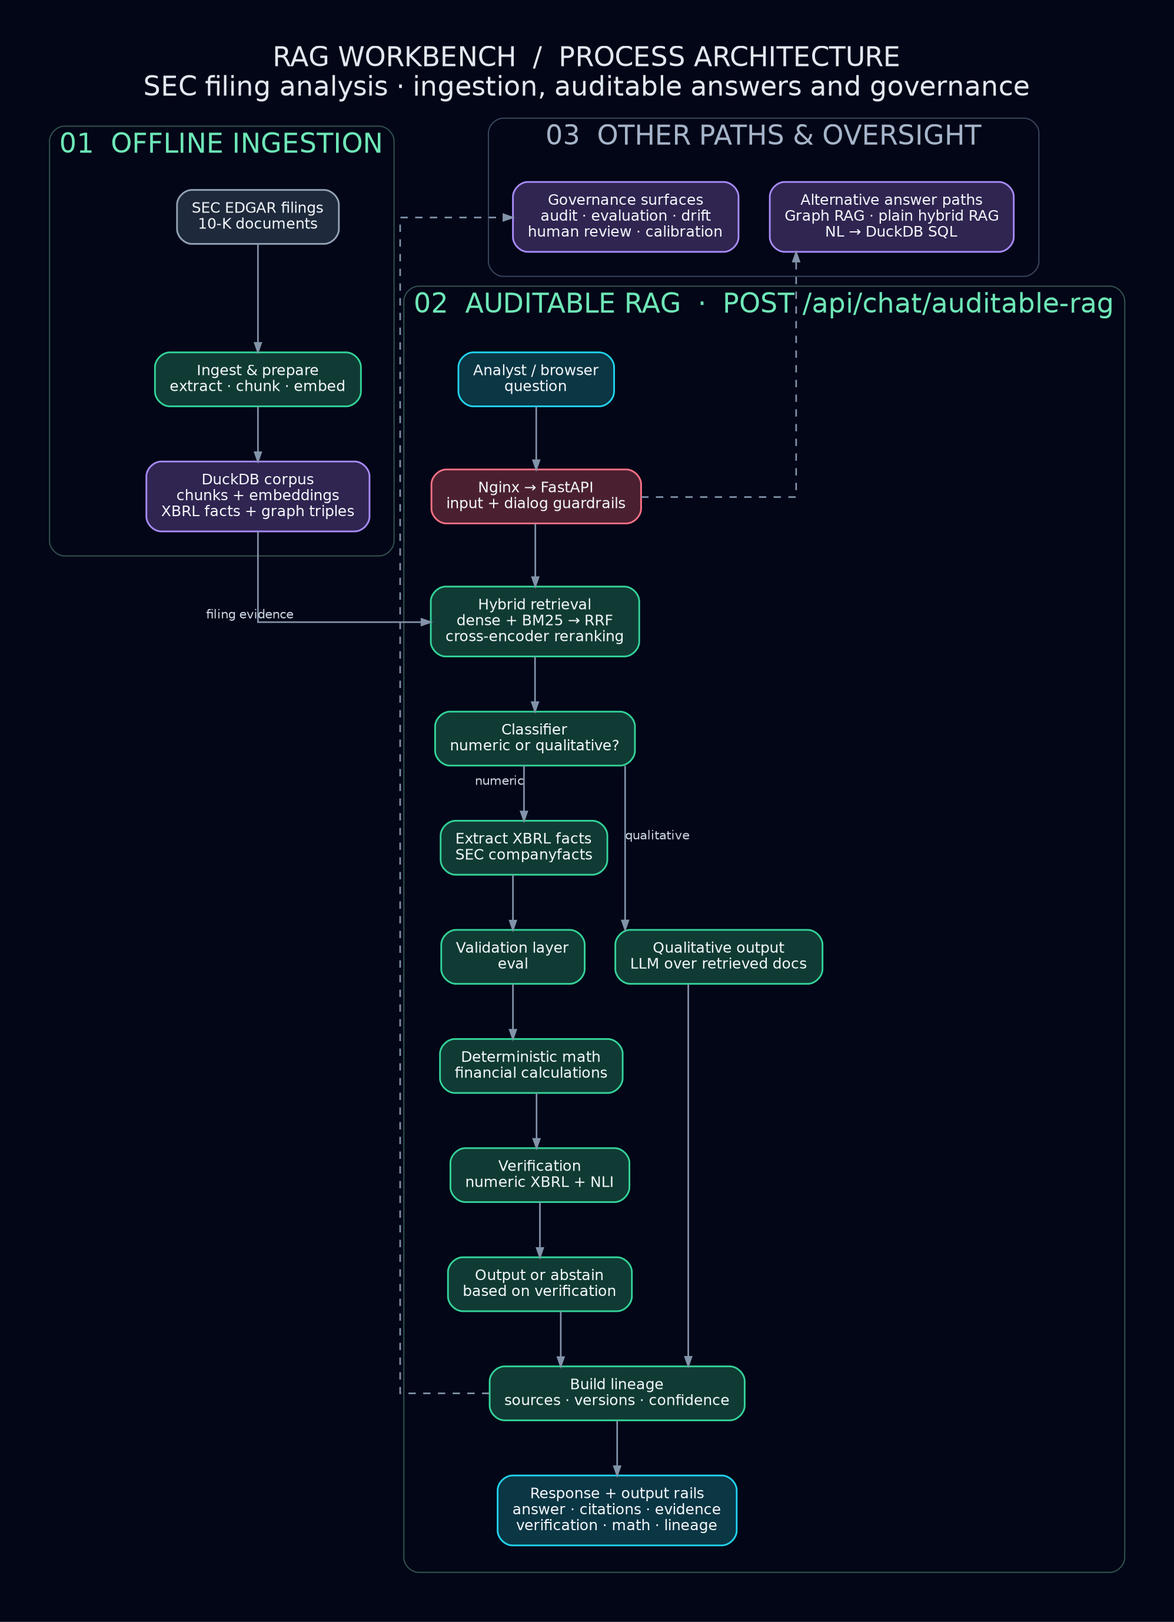
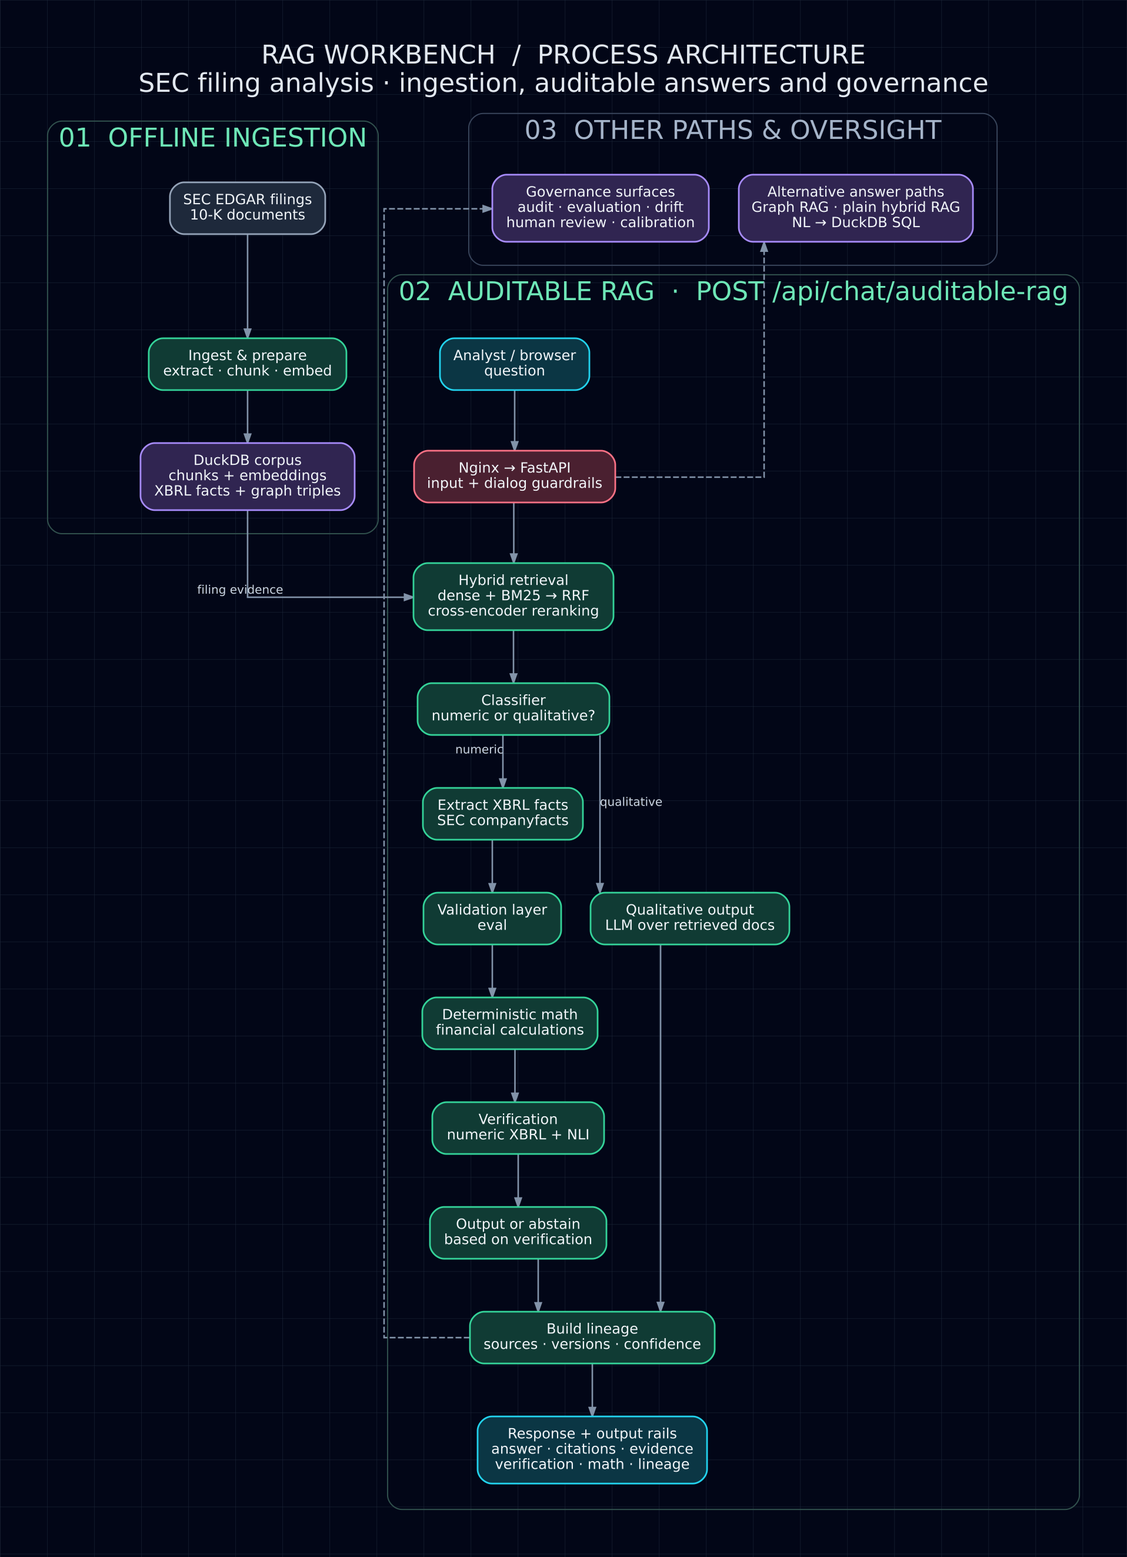
Align diagram layering with generator template

diff --git a/docs/rag-process-architecture.html b/docs/rag-process-architecture.html
@@ -73,6 +73,7 @@
 
     svg {
       width: 100%;
+      height: auto;
       min-width: 900px;
       display: block;
     }
@@ -203,25 +204,131 @@
     <div class="diagram-container">
 <svg role="img" aria-label="RAG Workbench process architecture"
  viewBox="0.00 0.00 957.80 1322.80" xmlns="http://www.w3.org/2000/svg" xmlns:xlink="http://www.w3.org/1999/xlink">
+<defs><pattern id="grid" width="40" height="40" patternUnits="userSpaceOnUse"><path d="M 40 0 L 0 0 0 40" fill="none" stroke="#1e293b" stroke-width="0.5"/></pattern></defs>
+<rect width="100%" height="100%" fill="#020617"/><rect width="100%" height="100%" fill="url(#grid)"/>
 <g id="graph0" class="graph" transform="scale(1 1) rotate(0) translate(32.4 1290.4)">
 <title>RAG</title>
-<polygon fill="#020617" stroke="transparent" points="-32.4,32.4 -32.4,-1290.4 925.4,-1290.4 925.4,32.4 -32.4,32.4"/>
 <text text-anchor="middle" x="446.5" y="-1236.4" font-family="DejaVu Sans" font-size="22.00" fill="#e2e8f0">RAG WORKBENCH &#160;/ &#160;PROCESS ARCHITECTURE</text>
 <text text-anchor="middle" x="446.5" y="-1212.4" font-family="DejaVu Sans" font-size="22.00" fill="#e2e8f0">SEC filing analysis · ingestion, auditable answers and governance</text>
 <g id="clust1" class="cluster">
 <title>cluster_ingest</title>
-<path fill="#020617" stroke="#31514d" d="M20,-837C20,-837 277,-837 277,-837 283,-837 289,-843 289,-849 289,-849 289,-1175.5 289,-1175.5 289,-1181.5 283,-1187.5 277,-1187.5 277,-1187.5 20,-1187.5 20,-1187.5 14,-1187.5 8,-1181.5 8,-1175.5 8,-1175.5 8,-849 8,-849 8,-843 14,-837 20,-837"/>
+<path fill="none" stroke="#31514d" d="M20,-837C20,-837 277,-837 277,-837 283,-837 289,-843 289,-849 289,-849 289,-1175.5 289,-1175.5 289,-1181.5 283,-1187.5 277,-1187.5 277,-1187.5 20,-1187.5 20,-1187.5 14,-1187.5 8,-1181.5 8,-1175.5 8,-1175.5 8,-849 8,-849 8,-843 14,-837 20,-837"/>
 <text text-anchor="middle" x="148.5" y="-1165.9" font-family="DejaVu Sans" font-size="22.00" fill="#6ee7b7">01 &#160;OFFLINE INGESTION</text>
 </g>
 <g id="clust2" class="cluster">
 <title>cluster_query</title>
-<path fill="#020617" stroke="#31514d" d="M309,-8C309,-8 873,-8 873,-8 879,-8 885,-14 885,-20 885,-20 885,-1045 885,-1045 885,-1051 879,-1057 873,-1057 873,-1057 309,-1057 309,-1057 303,-1057 297,-1051 297,-1045 297,-1045 297,-20 297,-20 297,-14 303,-8 309,-8"/>
+<path fill="none" stroke="#31514d" d="M309,-8C309,-8 873,-8 873,-8 879,-8 885,-14 885,-20 885,-20 885,-1045 885,-1045 885,-1051 879,-1057 873,-1057 873,-1057 309,-1057 309,-1057 303,-1057 297,-1051 297,-1045 297,-1045 297,-20 297,-20 297,-14 303,-8 309,-8"/>
 <text text-anchor="middle" x="591" y="-1035.4" font-family="DejaVu Sans" font-size="22.00" fill="#6ee7b7">02 &#160;AUDITABLE RAG &#160;· &#160;POST /api/chat/auditable&#45;rag</text>
 </g>
 <g id="clust3" class="cluster">
 <title>cluster_support</title>
-<path fill="#020617" stroke="#38445a" d="M378,-1065C378,-1065 803,-1065 803,-1065 809,-1065 815,-1071 815,-1077 815,-1077 815,-1182 815,-1182 815,-1188 809,-1194 803,-1194 803,-1194 378,-1194 378,-1194 372,-1194 366,-1188 366,-1182 366,-1182 366,-1077 366,-1077 366,-1071 372,-1065 378,-1065"/>
+<path fill="none" stroke="#38445a" d="M378,-1065C378,-1065 803,-1065 803,-1065 809,-1065 815,-1071 815,-1077 815,-1077 815,-1182 815,-1182 815,-1188 809,-1194 803,-1194 803,-1194 378,-1194 378,-1194 372,-1194 366,-1188 366,-1182 366,-1182 366,-1077 366,-1077 366,-1071 372,-1065 378,-1065"/>
 <text text-anchor="middle" x="590.5" y="-1172.4" font-family="DejaVu Sans" font-size="22.00" fill="#a5b4c9">03 &#160;OTHER PATHS &amp; OVERSIGHT</text>
+</g>
+<!-- edgar&#45;&gt;ingest -->
+<g id="edge1" class="edge">
+<title>edgar&#45;&gt;ingest</title>
+<path fill="none" stroke="#8293a9" stroke-width="1.3" d="M178,-1091.32C178,-1091.32 178,-1010.75 178,-1010.75"/>
+<polygon fill="#8293a9" stroke="#8293a9" stroke-width="1.3" points="180.63,-1010.75 178,-1003.25 175.38,-1010.75 180.63,-1010.75"/>
+</g>
+<!-- ingest&#45;&gt;corpus -->
+<g id="edge2" class="edge">
+<title>ingest&#45;&gt;corpus</title>
+<path fill="none" stroke="#8293a9" stroke-width="1.3" d="M178,-958.85C178,-958.85 178,-921.56 178,-921.56"/>
+<polygon fill="#8293a9" stroke="#8293a9" stroke-width="1.3" points="180.63,-921.56 178,-914.06 175.38,-921.56 180.63,-921.56"/>
+</g>
+<!-- corpus&#45;&gt;retrieve -->
+<g id="edge15" class="edge">
+<title>corpus&#45;&gt;retrieve</title>
+<path fill="none" stroke="#8293a9" stroke-width="1.3" d="M178,-856.95C178,-826.62 178,-783 178,-783 178,-783 311.38,-783 311.38,-783"/>
+<polygon fill="#8293a9" stroke="#8293a9" stroke-width="1.3" points="311.38,-785.63 318.88,-783 311.38,-780.38 311.38,-785.63"/>
+<text text-anchor="middle" x="171.72" y="-786" font-family="DejaVu Sans" font-size="10.00" fill="#cbd5e1">filing evidence</text>
+</g>
+<!-- user&#45;&gt;api -->
+<g id="edge3" class="edge">
+<title>user&#45;&gt;api</title>
+<path fill="none" stroke="#8293a9" stroke-width="1.3" d="M405,-958.85C405,-958.85 405,-915.03 405,-915.03"/>
+<polygon fill="#8293a9" stroke="#8293a9" stroke-width="1.3" points="407.63,-915.03 405,-907.53 402.38,-915.03 407.63,-915.03"/>
+</g>
+<!-- api&#45;&gt;retrieve -->
+<g id="edge4" class="edge">
+<title>api&#45;&gt;retrieve</title>
+<path fill="none" stroke="#8293a9" stroke-width="1.3" d="M404.25,-863.37C404.25,-863.37 404.25,-819.68 404.25,-819.68"/>
+<polygon fill="#8293a9" stroke="#8293a9" stroke-width="1.3" points="406.88,-819.68 404.25,-812.18 401.63,-819.68 406.88,-819.68"/>
+</g>
+<!-- api&#45;&gt;alternatives -->
+<g id="edge16" class="edge">
+<title>api&#45;&gt;alternatives</title>
+<path fill="none" stroke="#8293a9" stroke-width="1.3" stroke-dasharray="5,2" d="M490.62,-885C549.46,-885 617,-885 617,-885 617,-885 617,-1077.06 617,-1077.06"/>
+<polygon fill="#8293a9" stroke="#8293a9" stroke-width="1.3" points="614.38,-1077.06 617,-1084.56 619.63,-1077.06 614.38,-1077.06"/>
+</g>
+<!-- retrieve&#45;&gt;classify -->
+<g id="edge5" class="edge">
+<title>retrieve&#45;&gt;classify</title>
+<path fill="none" stroke="#8293a9" stroke-width="1.3" d="M404,-754.85C404,-754.85 404,-717.76 404,-717.76"/>
+<polygon fill="#8293a9" stroke="#8293a9" stroke-width="1.3" points="406.63,-717.76 404,-710.26 401.38,-717.76 406.63,-717.76"/>
+</g>
+<!-- classify&#45;&gt;extract -->
+<g id="edge6" class="edge">
+<title>classify&#45;&gt;extract</title>
+<path fill="none" stroke="#8293a9" stroke-width="1.3" d="M395,-666C395,-666 395,-628.56 395,-628.56"/>
+<polygon fill="#8293a9" stroke="#8293a9" stroke-width="1.3" points="397.63,-628.56 395,-621.06 392.38,-628.56 397.63,-628.56"/>
+<text text-anchor="middle" x="375" y="-650.28" font-family="DejaVu Sans" font-size="10.00" fill="#cbd5e1">numeric</text>
+</g>
+<!-- classify&#45;&gt;qual -->
+<g id="edge12" class="edge">
+<title>classify&#45;&gt;qual</title>
+<path fill="none" stroke="#8293a9" stroke-width="1.3" d="M477.5,-665.82C477.5,-665.82 477.5,-539.68 477.5,-539.68"/>
+<polygon fill="#8293a9" stroke="#8293a9" stroke-width="1.3" points="480.13,-539.68 477.5,-532.18 474.88,-539.68 480.13,-539.68"/>
+<text text-anchor="middle" x="504" y="-605.75" font-family="DejaVu Sans" font-size="10.00" fill="#cbd5e1">qualitative</text>
+</g>
+<!-- extract&#45;&gt;eval -->
+<g id="edge7" class="edge">
+<title>extract&#45;&gt;eval</title>
+<path fill="none" stroke="#8293a9" stroke-width="1.3" d="M386,-577C386,-577 386,-539.56 386,-539.56"/>
+<polygon fill="#8293a9" stroke="#8293a9" stroke-width="1.3" points="388.63,-539.56 386,-532.06 383.38,-539.56 388.63,-539.56"/>
+</g>
+<!-- eval&#45;&gt;math -->
+<g id="edge8" class="edge">
+<title>eval&#45;&gt;math</title>
+<path fill="none" stroke="#8293a9" stroke-width="1.3" d="M386,-488C386,-488 386,-450.56 386,-450.56"/>
+<polygon fill="#8293a9" stroke="#8293a9" stroke-width="1.3" points="388.63,-450.56 386,-443.06 383.38,-450.56 388.63,-450.56"/>
+</g>
+<!-- math&#45;&gt;verify -->
+<g id="edge9" class="edge">
+<title>math&#45;&gt;verify</title>
+<path fill="none" stroke="#8293a9" stroke-width="1.3" d="M405.25,-399C405.25,-399 405.25,-361.56 405.25,-361.56"/>
+<polygon fill="#8293a9" stroke="#8293a9" stroke-width="1.3" points="407.88,-361.56 405.25,-354.06 402.63,-361.56 407.88,-361.56"/>
+</g>
+<!-- verify&#45;&gt;output -->
+<g id="edge10" class="edge">
+<title>verify&#45;&gt;output</title>
+<path fill="none" stroke="#8293a9" stroke-width="1.3" d="M408,-310C408,-310 408,-272.56 408,-272.56"/>
+<polygon fill="#8293a9" stroke="#8293a9" stroke-width="1.3" points="410.63,-272.56 408,-265.06 405.38,-272.56 410.63,-272.56"/>
+</g>
+<!-- output&#45;&gt;lineage -->
+<g id="edge11" class="edge">
+<title>output&#45;&gt;lineage</title>
+<path fill="none" stroke="#8293a9" stroke-width="1.3" d="M425,-221C425,-221 425,-183.56 425,-183.56"/>
+<polygon fill="#8293a9" stroke="#8293a9" stroke-width="1.3" points="427.63,-183.56 425,-176.06 422.38,-183.56 427.63,-183.56"/>
+</g>
+<!-- qual&#45;&gt;lineage -->
+<g id="edge13" class="edge">
+<title>qual&#45;&gt;lineage</title>
+<path fill="none" stroke="#8293a9" stroke-width="1.3" d="M529,-488C529,-488 529,-183.81 529,-183.81"/>
+<polygon fill="#8293a9" stroke="#8293a9" stroke-width="1.3" points="531.63,-183.81 529,-176.31 526.38,-183.81 531.63,-183.81"/>
+</g>
+<!-- lineage&#45;&gt;response -->
+<g id="edge14" class="edge">
+<title>lineage&#45;&gt;response</title>
+<path fill="none" stroke="#8293a9" stroke-width="1.3" d="M471,-131.85C471,-131.85 471,-94.56 471,-94.56"/>
+<polygon fill="#8293a9" stroke="#8293a9" stroke-width="1.3" points="473.63,-94.56 471,-87.06 468.38,-94.56 473.63,-94.56"/>
+</g>
+<!-- lineage&#45;&gt;oversight -->
+<g id="edge17" class="edge">
+<title>lineage&#45;&gt;oversight</title>
+<path fill="none" stroke="#8293a9" stroke-width="1.3" stroke-dasharray="5,2" d="M366.76,-154C328.33,-154 294,-154 294,-154 294,-154 294,-1113 294,-1113 294,-1113 378.23,-1113 378.23,-1113"/>
+<polygon fill="#8293a9" stroke="#8293a9" stroke-width="1.3" points="378.23,-1115.63 385.73,-1113 378.23,-1110.38 378.23,-1115.63"/>
 </g>
 <!-- edgar -->
 <g id="node1" class="node">
@@ -237,12 +344,6 @@
 <text text-anchor="middle" x="178" y="-984.4" font-family="DejaVu Sans" font-size="12.00" fill="#f1f5f9">Ingest &amp; prepare</text>
 <text text-anchor="middle" x="178" y="-971.4" font-family="DejaVu Sans" font-size="12.00" fill="#f1f5f9">extract · chunk · embed</text>
 </g>
-<!-- edgar&#45;&gt;ingest -->
-<g id="edge1" class="edge">
-<title>edgar&#45;&gt;ingest</title>
-<path fill="none" stroke="#8293a9" stroke-width="1.3" d="M178,-1091.32C178,-1091.32 178,-1010.75 178,-1010.75"/>
-<polygon fill="#8293a9" stroke="#8293a9" stroke-width="1.3" points="180.63,-1010.75 178,-1003.25 175.38,-1010.75 180.63,-1010.75"/>
-</g>
 <!-- corpus -->
 <g id="node3" class="node">
 <title>corpus</title>
@@ -251,12 +352,6 @@
 <text text-anchor="middle" x="178" y="-882.4" font-family="DejaVu Sans" font-size="12.00" fill="#f1f5f9">chunks + embeddings</text>
 <text text-anchor="middle" x="178" y="-869.4" font-family="DejaVu Sans" font-size="12.00" fill="#f1f5f9">XBRL facts + graph triples</text>
 </g>
-<!-- ingest&#45;&gt;corpus -->
-<g id="edge2" class="edge">
-<title>ingest&#45;&gt;corpus</title>
-<path fill="none" stroke="#8293a9" stroke-width="1.3" d="M178,-958.85C178,-958.85 178,-921.56 178,-921.56"/>
-<polygon fill="#8293a9" stroke="#8293a9" stroke-width="1.3" points="180.63,-921.56 178,-914.06 175.38,-921.56 180.63,-921.56"/>
-</g>
 <!-- retrieve -->
 <g id="node6" class="node">
 <title>retrieve</title>
@@ -264,13 +359,6 @@
 <text text-anchor="middle" x="404" y="-793.4" font-family="DejaVu Sans" font-size="12.00" fill="#f1f5f9">Hybrid retrieval</text>
 <text text-anchor="middle" x="404" y="-780.4" font-family="DejaVu Sans" font-size="12.00" fill="#f1f5f9">dense + BM25 → RRF</text>
 <text text-anchor="middle" x="404" y="-767.4" font-family="DejaVu Sans" font-size="12.00" fill="#f1f5f9">cross&#45;encoder reranking</text>
-</g>
-<!-- corpus&#45;&gt;retrieve -->
-<g id="edge15" class="edge">
-<title>corpus&#45;&gt;retrieve</title>
-<path fill="none" stroke="#8293a9" stroke-width="1.3" d="M178,-856.95C178,-826.62 178,-783 178,-783 178,-783 311.38,-783 311.38,-783"/>
-<polygon fill="#8293a9" stroke="#8293a9" stroke-width="1.3" points="311.38,-785.63 318.88,-783 311.38,-780.38 311.38,-785.63"/>
-<text text-anchor="middle" x="171.72" y="-786" font-family="DejaVu Sans" font-size="10.00" fill="#cbd5e1">filing evidence</text>
 </g>
 <!-- user -->
 <g id="node4" class="node">
@@ -286,18 +374,6 @@
 <text text-anchor="middle" x="405" y="-888.9" font-family="DejaVu Sans" font-size="12.00" fill="#f1f5f9">Nginx → FastAPI</text>
 <text text-anchor="middle" x="405" y="-875.9" font-family="DejaVu Sans" font-size="12.00" fill="#f1f5f9">input + dialog guardrails</text>
 </g>
-<!-- user&#45;&gt;api -->
-<g id="edge3" class="edge">
-<title>user&#45;&gt;api</title>
-<path fill="none" stroke="#8293a9" stroke-width="1.3" d="M405,-958.85C405,-958.85 405,-915.03 405,-915.03"/>
-<polygon fill="#8293a9" stroke="#8293a9" stroke-width="1.3" points="407.63,-915.03 405,-907.53 402.38,-915.03 407.63,-915.03"/>
-</g>
-<!-- api&#45;&gt;retrieve -->
-<g id="edge4" class="edge">
-<title>api&#45;&gt;retrieve</title>
-<path fill="none" stroke="#8293a9" stroke-width="1.3" d="M404.25,-863.37C404.25,-863.37 404.25,-819.68 404.25,-819.68"/>
-<polygon fill="#8293a9" stroke="#8293a9" stroke-width="1.3" points="406.88,-819.68 404.25,-812.18 401.63,-819.68 406.88,-819.68"/>
-</g>
 <!-- alternatives -->
 <g id="node16" class="node">
 <title>alternatives</title>
@@ -306,24 +382,12 @@
 <text text-anchor="middle" x="695" y="-1110.4" font-family="DejaVu Sans" font-size="12.00" fill="#f1f5f9">Graph RAG · plain hybrid RAG</text>
 <text text-anchor="middle" x="695" y="-1097.4" font-family="DejaVu Sans" font-size="12.00" fill="#f1f5f9">NL → DuckDB SQL</text>
 </g>
-<!-- api&#45;&gt;alternatives -->
-<g id="edge16" class="edge">
-<title>api&#45;&gt;alternatives</title>
-<path fill="none" stroke="#8293a9" stroke-width="1.3" stroke-dasharray="5,2" d="M490.62,-885C549.46,-885 617,-885 617,-885 617,-885 617,-1077.06 617,-1077.06"/>
-<polygon fill="#8293a9" stroke="#8293a9" stroke-width="1.3" points="614.38,-1077.06 617,-1084.56 619.63,-1077.06 614.38,-1077.06"/>
-</g>
 <!-- classify -->
 <g id="node7" class="node">
 <title>classify</title>
 <path fill="#103b34" stroke="#34d399" stroke-width="1.4" d="M473.5,-710C473.5,-710 334.5,-710 334.5,-710 328.5,-710 322.5,-704 322.5,-698 322.5,-698 322.5,-678 322.5,-678 322.5,-672 328.5,-666 334.5,-666 334.5,-666 473.5,-666 473.5,-666 479.5,-666 485.5,-672 485.5,-678 485.5,-678 485.5,-698 485.5,-698 485.5,-704 479.5,-710 473.5,-710"/>
 <text text-anchor="middle" x="404" y="-691.4" font-family="DejaVu Sans" font-size="12.00" fill="#f1f5f9">Classifier</text>
 <text text-anchor="middle" x="404" y="-678.4" font-family="DejaVu Sans" font-size="12.00" fill="#f1f5f9">numeric or qualitative?</text>
-</g>
-<!-- retrieve&#45;&gt;classify -->
-<g id="edge5" class="edge">
-<title>retrieve&#45;&gt;classify</title>
-<path fill="none" stroke="#8293a9" stroke-width="1.3" d="M404,-754.85C404,-754.85 404,-717.76 404,-717.76"/>
-<polygon fill="#8293a9" stroke="#8293a9" stroke-width="1.3" points="406.63,-717.76 404,-710.26 401.38,-717.76 406.63,-717.76"/>
 </g>
 <!-- extract -->
 <g id="node8" class="node">
@@ -332,26 +396,12 @@
 <text text-anchor="middle" x="395" y="-602.4" font-family="DejaVu Sans" font-size="12.00" fill="#f1f5f9">Extract XBRL facts</text>
 <text text-anchor="middle" x="395" y="-589.4" font-family="DejaVu Sans" font-size="12.00" fill="#f1f5f9">SEC companyfacts</text>
 </g>
-<!-- classify&#45;&gt;extract -->
-<g id="edge6" class="edge">
-<title>classify&#45;&gt;extract</title>
-<path fill="none" stroke="#8293a9" stroke-width="1.3" d="M395,-666C395,-666 395,-628.56 395,-628.56"/>
-<polygon fill="#8293a9" stroke="#8293a9" stroke-width="1.3" points="397.63,-628.56 395,-621.06 392.38,-628.56 397.63,-628.56"/>
-<text text-anchor="middle" x="375" y="-650.28" font-family="DejaVu Sans" font-size="10.00" fill="#cbd5e1">numeric</text>
-</g>
 <!-- qual -->
 <g id="node13" class="node">
 <title>qual</title>
 <path fill="#103b34" stroke="#34d399" stroke-width="1.4" d="M626.5,-532C626.5,-532 481.5,-532 481.5,-532 475.5,-532 469.5,-526 469.5,-520 469.5,-520 469.5,-500 469.5,-500 469.5,-494 475.5,-488 481.5,-488 481.5,-488 626.5,-488 626.5,-488 632.5,-488 638.5,-494 638.5,-500 638.5,-500 638.5,-520 638.5,-520 638.5,-526 632.5,-532 626.5,-532"/>
 <text text-anchor="middle" x="554" y="-513.4" font-family="DejaVu Sans" font-size="12.00" fill="#f1f5f9">Qualitative output</text>
 <text text-anchor="middle" x="554" y="-500.4" font-family="DejaVu Sans" font-size="12.00" fill="#f1f5f9">LLM over retrieved docs</text>
-</g>
-<!-- classify&#45;&gt;qual -->
-<g id="edge12" class="edge">
-<title>classify&#45;&gt;qual</title>
-<path fill="none" stroke="#8293a9" stroke-width="1.3" d="M477.5,-665.82C477.5,-665.82 477.5,-539.68 477.5,-539.68"/>
-<polygon fill="#8293a9" stroke="#8293a9" stroke-width="1.3" points="480.13,-539.68 477.5,-532.18 474.88,-539.68 480.13,-539.68"/>
-<text text-anchor="middle" x="504" y="-605.75" font-family="DejaVu Sans" font-size="10.00" fill="#cbd5e1">qualitative</text>
 </g>
 <!-- eval -->
 <g id="node9" class="node">
@@ -360,24 +410,12 @@
 <text text-anchor="middle" x="386" y="-513.4" font-family="DejaVu Sans" font-size="12.00" fill="#f1f5f9">Validation layer</text>
 <text text-anchor="middle" x="386" y="-500.4" font-family="DejaVu Sans" font-size="12.00" fill="#f1f5f9">eval</text>
 </g>
-<!-- extract&#45;&gt;eval -->
-<g id="edge7" class="edge">
-<title>extract&#45;&gt;eval</title>
-<path fill="none" stroke="#8293a9" stroke-width="1.3" d="M386,-577C386,-577 386,-539.56 386,-539.56"/>
-<polygon fill="#8293a9" stroke="#8293a9" stroke-width="1.3" points="388.63,-539.56 386,-532.06 383.38,-539.56 388.63,-539.56"/>
-</g>
 <!-- math -->
 <g id="node10" class="node">
 <title>math</title>
 <path fill="#103b34" stroke="#34d399" stroke-width="1.4" d="M463.5,-443C463.5,-443 338.5,-443 338.5,-443 332.5,-443 326.5,-437 326.5,-431 326.5,-431 326.5,-411 326.5,-411 326.5,-405 332.5,-399 338.5,-399 338.5,-399 463.5,-399 463.5,-399 469.5,-399 475.5,-405 475.5,-411 475.5,-411 475.5,-431 475.5,-431 475.5,-437 469.5,-443 463.5,-443"/>
 <text text-anchor="middle" x="401" y="-424.4" font-family="DejaVu Sans" font-size="12.00" fill="#f1f5f9">Deterministic math</text>
 <text text-anchor="middle" x="401" y="-411.4" font-family="DejaVu Sans" font-size="12.00" fill="#f1f5f9">financial calculations</text>
-</g>
-<!-- eval&#45;&gt;math -->
-<g id="edge8" class="edge">
-<title>eval&#45;&gt;math</title>
-<path fill="none" stroke="#8293a9" stroke-width="1.3" d="M386,-488C386,-488 386,-450.56 386,-450.56"/>
-<polygon fill="#8293a9" stroke="#8293a9" stroke-width="1.3" points="388.63,-450.56 386,-443.06 383.38,-450.56 388.63,-450.56"/>
 </g>
 <!-- verify -->
 <g id="node11" class="node">
@@ -386,12 +424,6 @@
 <text text-anchor="middle" x="408" y="-335.4" font-family="DejaVu Sans" font-size="12.00" fill="#f1f5f9">Verification</text>
 <text text-anchor="middle" x="408" y="-322.4" font-family="DejaVu Sans" font-size="12.00" fill="#f1f5f9">numeric XBRL + NLI</text>
 </g>
-<!-- math&#45;&gt;verify -->
-<g id="edge9" class="edge">
-<title>math&#45;&gt;verify</title>
-<path fill="none" stroke="#8293a9" stroke-width="1.3" d="M405.25,-399C405.25,-399 405.25,-361.56 405.25,-361.56"/>
-<polygon fill="#8293a9" stroke="#8293a9" stroke-width="1.3" points="407.88,-361.56 405.25,-354.06 402.63,-361.56 407.88,-361.56"/>
-</g>
 <!-- output -->
 <g id="node12" class="node">
 <title>output</title>
@@ -399,30 +431,12 @@
 <text text-anchor="middle" x="408" y="-246.4" font-family="DejaVu Sans" font-size="12.00" fill="#f1f5f9">Output or abstain</text>
 <text text-anchor="middle" x="408" y="-233.4" font-family="DejaVu Sans" font-size="12.00" fill="#f1f5f9">based on verification</text>
 </g>
-<!-- verify&#45;&gt;output -->
-<g id="edge10" class="edge">
-<title>verify&#45;&gt;output</title>
-<path fill="none" stroke="#8293a9" stroke-width="1.3" d="M408,-310C408,-310 408,-272.56 408,-272.56"/>
-<polygon fill="#8293a9" stroke="#8293a9" stroke-width="1.3" points="410.63,-272.56 408,-265.06 405.38,-272.56 410.63,-272.56"/>
-</g>
 <!-- lineage -->
 <g id="node14" class="node">
 <title>lineage</title>
 <path fill="#103b34" stroke="#34d399" stroke-width="1.4" d="M563,-176C563,-176 379,-176 379,-176 373,-176 367,-170 367,-164 367,-164 367,-144 367,-144 367,-138 373,-132 379,-132 379,-132 563,-132 563,-132 569,-132 575,-138 575,-144 575,-144 575,-164 575,-164 575,-170 569,-176 563,-176"/>
 <text text-anchor="middle" x="471" y="-157.4" font-family="DejaVu Sans" font-size="12.00" fill="#f1f5f9">Build lineage</text>
 <text text-anchor="middle" x="471" y="-144.4" font-family="DejaVu Sans" font-size="12.00" fill="#f1f5f9">sources · versions · confidence</text>
-</g>
-<!-- output&#45;&gt;lineage -->
-<g id="edge11" class="edge">
-<title>output&#45;&gt;lineage</title>
-<path fill="none" stroke="#8293a9" stroke-width="1.3" d="M425,-221C425,-221 425,-183.56 425,-183.56"/>
-<polygon fill="#8293a9" stroke="#8293a9" stroke-width="1.3" points="427.63,-183.56 425,-176.06 422.38,-183.56 427.63,-183.56"/>
-</g>
-<!-- qual&#45;&gt;lineage -->
-<g id="edge13" class="edge">
-<title>qual&#45;&gt;lineage</title>
-<path fill="none" stroke="#8293a9" stroke-width="1.3" d="M529,-488C529,-488 529,-183.81 529,-183.81"/>
-<polygon fill="#8293a9" stroke="#8293a9" stroke-width="1.3" points="531.63,-183.81 529,-176.31 526.38,-183.81 531.63,-183.81"/>
 </g>
 <!-- response -->
 <g id="node15" class="node">
@@ -432,12 +446,6 @@
 <text text-anchor="middle" x="471" y="-55.4" font-family="DejaVu Sans" font-size="12.00" fill="#f1f5f9">answer · citations · evidence</text>
 <text text-anchor="middle" x="471" y="-42.4" font-family="DejaVu Sans" font-size="12.00" fill="#f1f5f9">verification · math · lineage</text>
 </g>
-<!-- lineage&#45;&gt;response -->
-<g id="edge14" class="edge">
-<title>lineage&#45;&gt;response</title>
-<path fill="none" stroke="#8293a9" stroke-width="1.3" d="M471,-131.85C471,-131.85 471,-94.56 471,-94.56"/>
-<polygon fill="#8293a9" stroke="#8293a9" stroke-width="1.3" points="473.63,-94.56 471,-87.06 468.38,-94.56 473.63,-94.56"/>
-</g>
 <!-- oversight -->
 <g id="node17" class="node">
 <title>oversight</title>
@@ -445,12 +453,6 @@
 <text text-anchor="middle" x="478" y="-1123.4" font-family="DejaVu Sans" font-size="12.00" fill="#f1f5f9">Governance surfaces</text>
 <text text-anchor="middle" x="478" y="-1110.4" font-family="DejaVu Sans" font-size="12.00" fill="#f1f5f9">audit · evaluation · drift</text>
 <text text-anchor="middle" x="478" y="-1097.4" font-family="DejaVu Sans" font-size="12.00" fill="#f1f5f9">human review · calibration</text>
-</g>
-<!-- lineage&#45;&gt;oversight -->
-<g id="edge17" class="edge">
-<title>lineage&#45;&gt;oversight</title>
-<path fill="none" stroke="#8293a9" stroke-width="1.3" stroke-dasharray="5,2" d="M366.76,-154C328.33,-154 294,-154 294,-154 294,-154 294,-1113 294,-1113 294,-1113 378.23,-1113 378.23,-1113"/>
-<polygon fill="#8293a9" stroke="#8293a9" stroke-width="1.3" points="378.23,-1115.63 385.73,-1113 378.23,-1110.38 378.23,-1115.63"/>
 </g>
 </g>
 </svg>
